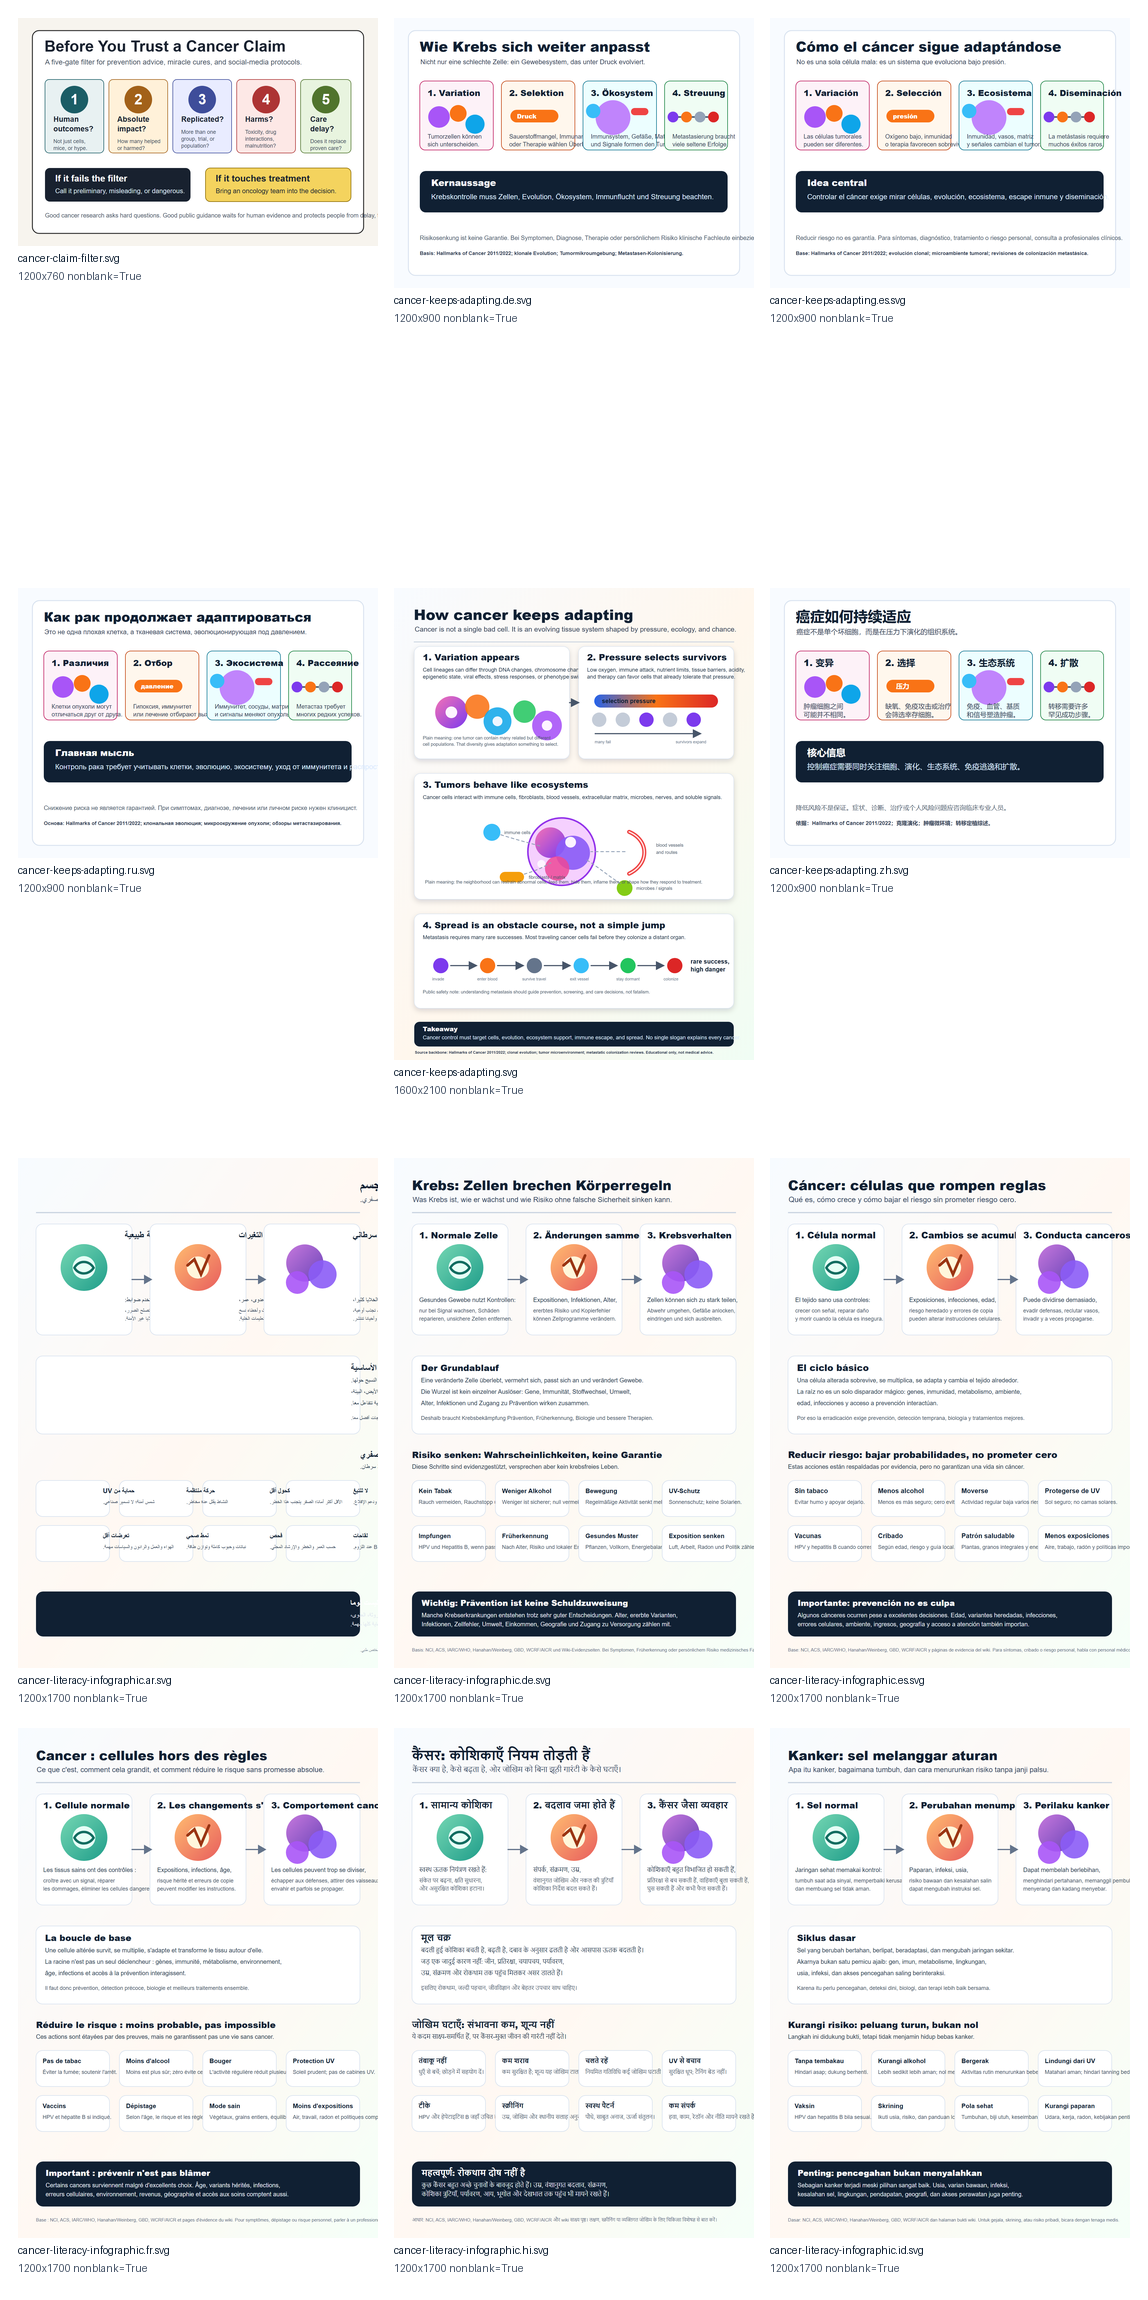
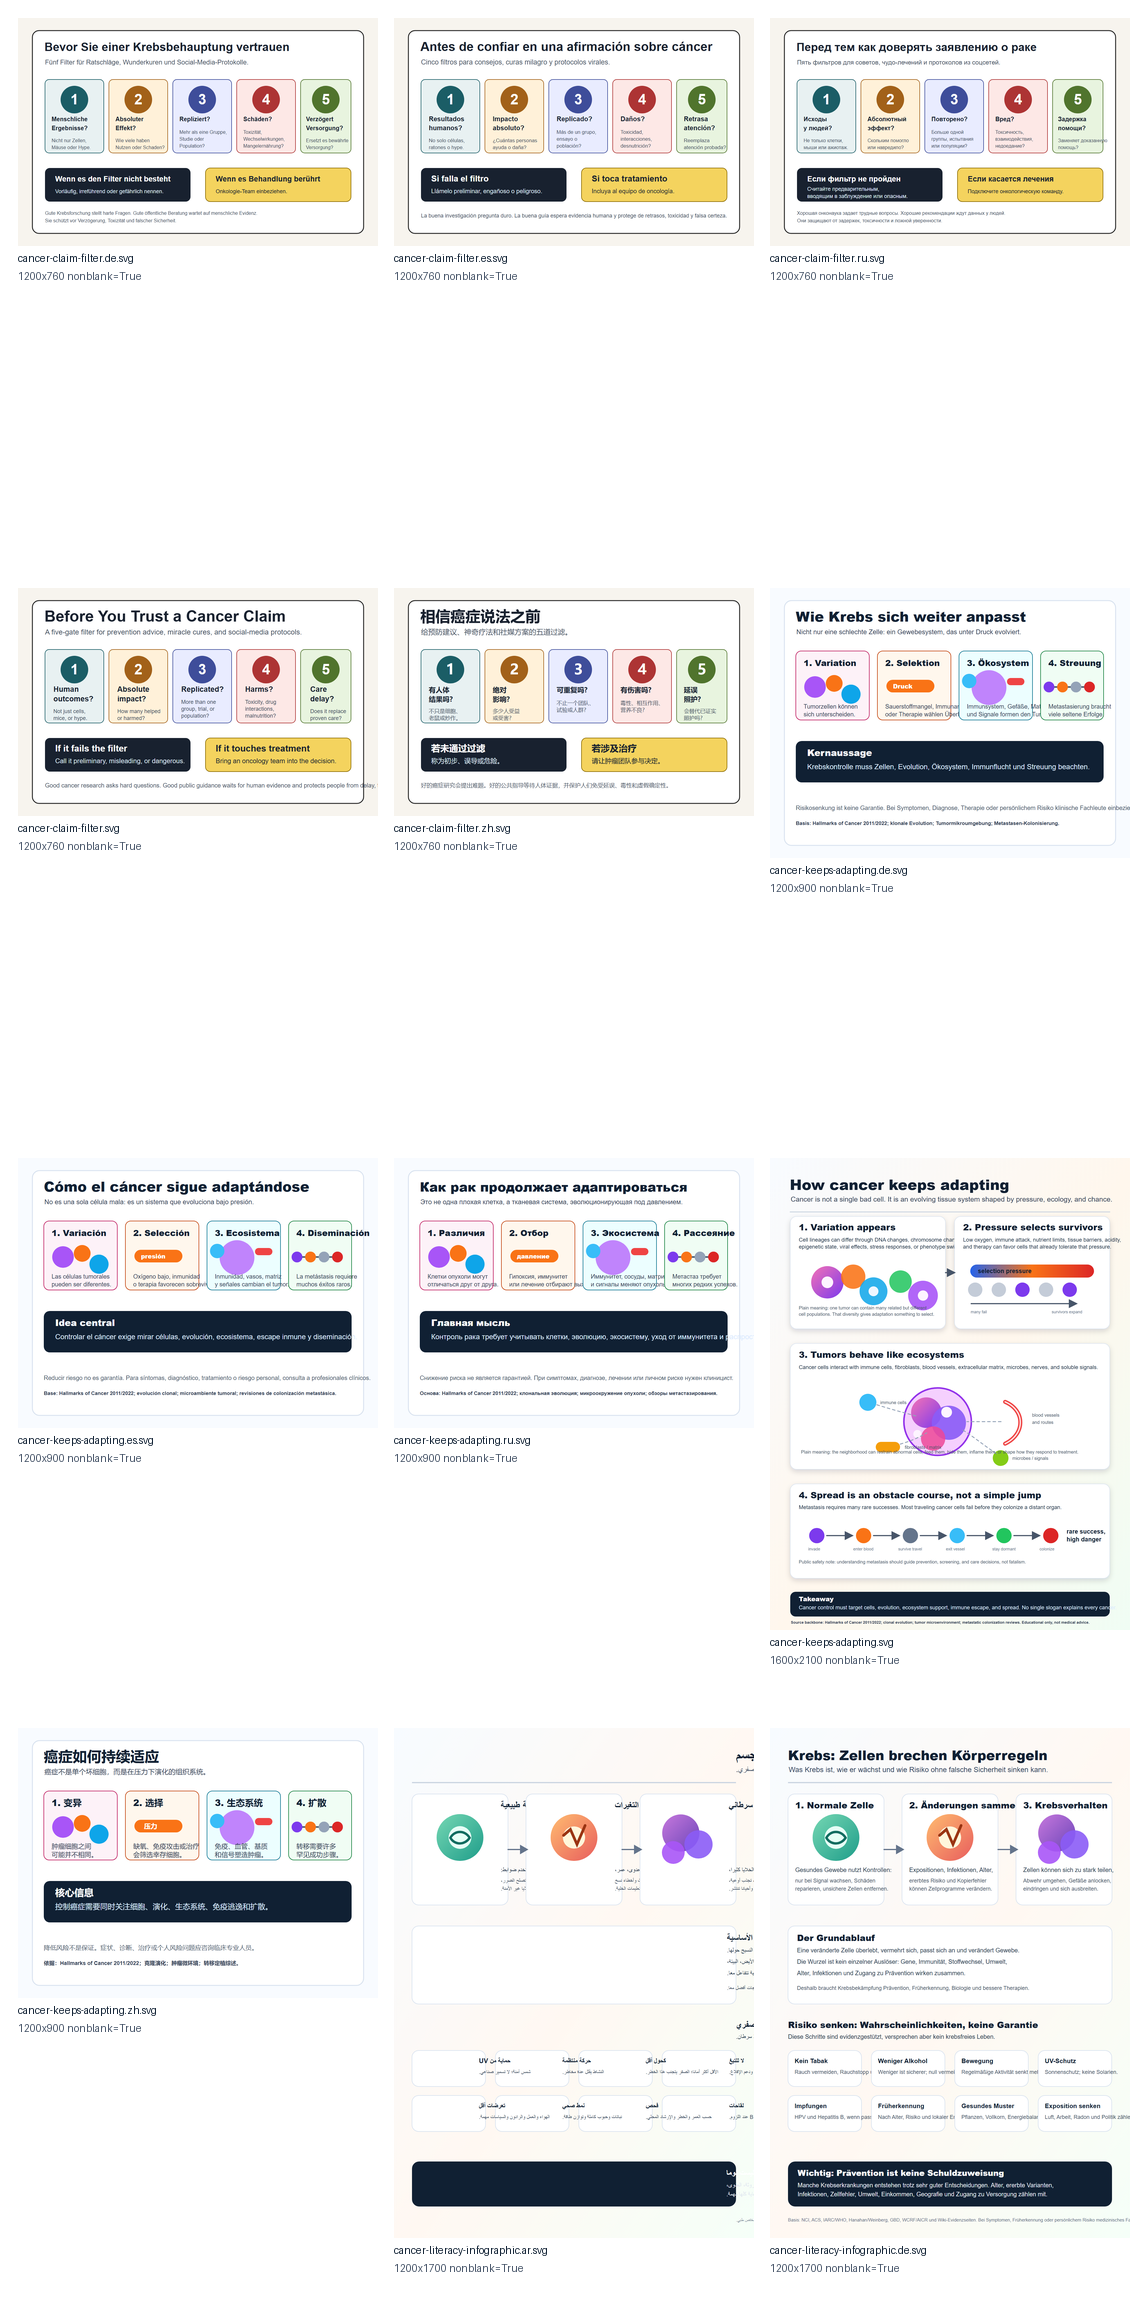
Add localized claim filter visuals

diff --git a/visuals/infographic-research-state-checks.md b/visuals/infographic-research-state-checks.md
@@ -11,6 +11,13 @@ Current translated support: `i18n/INFOGRAPHIC_CAPTIONS.md`
 
 Current safety add-on visual: `visuals/cancer-claim-filter.svg`
 
+Current localized claim-filter variants:
+
+- Spanish: `visuals/cancer-claim-filter.es.svg`
+- German: `visuals/cancer-claim-filter.de.svg`
+- Mandarin Chinese: `visuals/cancer-claim-filter.zh.svg`
+- Russian: `visuals/cancer-claim-filter.ru.svg`
+
 Current companion mechanism visual: `visuals/cancer-keeps-adapting.svg`
 
 Current screening/vaccination decision visual: `visuals/screening-vaccination-decision.svg`
@@ -74,8 +81,9 @@ New QA artifacts:
 ### What Changed
 
 - The current SVG set now has repeatable headless Chrome render QA in addition to XML structural QA.
-- All 42 SVGs rendered to nonblank PNGs at their declared canvas sizes.
+- All 46 current SVGs render to nonblank PNGs at their declared canvas sizes.
 - Contact sheets make it easier to inspect the visual set across languages and companions without opening every SVG one by one.
+- The claim-filter localized variants were included in this render pass; obvious German and Russian text overflow found during contact-sheet/full-size inspection was corrected before commit.
 
 ### Decision For The Flagship Infographic
 
@@ -286,12 +294,17 @@ New evidence page:
 New visual:
 
 - `visuals/cancer-claim-filter.svg`
+- `visuals/cancer-claim-filter.es.svg`
+- `visuals/cancer-claim-filter.de.svg`
+- `visuals/cancer-claim-filter.zh.svg`
+- `visuals/cancer-claim-filter.ru.svg`
 
 ### What Changed
 
 - The wiki now has a reusable five-gate public filter for cancer claims: human outcomes, absolute impact, replication, harms/interactions, and care delay.
 - New claim cards cover alkaline diets, detoxes, supplements, high-dose vitamin C, cannabis/cannabinoids, ivermectin/fenbendazole, fasting, and ketogenic diets.
 - The new page uses non-CDC-heavy sources, including AICR/WCRF, ASCO, systematic reviews, peer-reviewed trials, and frontier-review caution around drug repurposing.
+- First-pass localized claim-filter variants now exist for Spanish, German, Mandarin Chinese, and Russian.
 
 ### Decision For The Flagship Infographic
 
@@ -301,7 +314,11 @@ Instead:
 
 - Keep `visuals/cancer-claim-filter.svg` as a separate public safety visual.
 - Link the claim-filter page from the README research backing.
-- Later, translate the claim-filter visual only after language-specific review, because misleading claims often use local idioms and culture-specific fear hooks.
+- Keep localized claim-filter visuals under native review before public-final use, because misleading claims often use local idioms and culture-specific fear hooks.
+
+### Translation Impact
+
+The localized claim-filter visuals are useful for access, but they are also higher-risk than neutral mechanism diagrams. Future crawl passes should collect language-specific examples of misleading cancer prevention and treatment claims so translations can be tuned to real public-risk wording without amplifying scams.
 
 ## 2026-06-12 Check: Translated Infographic Assets
 

diff --git a/visuals/visual-qa-log.md b/visuals/visual-qa-log.md
@@ -11,7 +11,7 @@ Scope:
 
 - Flagship cancer literacy infographic: English plus localized SVGs.
 - Companion adaptation infographic: English plus first localized SVGs.
-- Claim-filter add-on visual.
+- Claim-filter add-on visual: English plus first localized SVGs.
 
 Checked files:
 
@@ -57,6 +57,10 @@ Checked files:
 - `visuals/population-burden-not-blame.zh.svg`
 - `visuals/population-burden-not-blame.ru.svg`
 - `visuals/cancer-claim-filter.svg`
+- `visuals/cancer-claim-filter.es.svg`
+- `visuals/cancer-claim-filter.de.svg`
+- `visuals/cancer-claim-filter.zh.svg`
+- `visuals/cancer-claim-filter.ru.svg`
 
 Result:
 
@@ -78,7 +82,7 @@ Browser QA attempt:
 
 Scope:
 
-- All 42 SVG files in `visuals/`.
+- All 46 SVG files in `visuals/`.
 
 Tooling:
 
@@ -95,8 +99,8 @@ Generated artifacts:
 
 Result:
 
-- Headless Chrome rendered all 42 SVG files at their declared canvas sizes.
-- All 42 renders were nonblank.
+- Headless Chrome rendered all 46 SVG files at their declared canvas sizes.
+- All 46 renders were nonblank.
 - Contact-sheet inspection did not reveal blank canvases or completely missing non-Latin glyph rendering.
 - Some dense translated visuals, especially non-Latin and right-to-left layouts, still need close human inspection for clipping, text crowding, line overflow, and translation quality.
 
@@ -122,6 +126,7 @@ Repository note:
 | Population burden/no-blame SVG | Passed | Headless Chrome nonblank passed; close layout review still needed | Not applicable |
 | Population burden/no-blame localized SVGs | Passed | Headless Chrome nonblank passed; close layout review still needed | Still needed |
 | Claim-filter SVG | Passed | Headless Chrome nonblank passed; close layout review still needed | Not applicable |
+| Claim-filter localized SVGs | Passed | Headless Chrome nonblank passed; obvious German/Russian overflow fixed; close layout review still needed | Still needed |
 
 ## Next Visual QA Tasks
 

diff --git a/crawl-queue/goal-1-next-crawl.md b/crawl-queue/goal-1-next-crawl.md
@@ -42,7 +42,7 @@ Last updated: 2026-06-12
 - Continue close visual inspection of the headless Chrome contact sheets in `visuals/qa-renders/`; current renderer QA proves all 42 SVGs render nonblank, but it does not finish clipping, glyph, layout, or translation review.
 - Visually QA the public-safe screening/vaccination decision visual and first localized variants: `visuals/screening-vaccination-decision.svg`, `.es.svg`, `.de.svg`, `.zh.svg`, and `.ru.svg`. Then expand to the remaining flagship languages if the compact layout holds.
 - Visually QA and expand the new agent-facing concept map: `visuals/risk-mechanism-prevention-map.svg`.
-- Produce a small public "cancer claim filter" visual for spotting weak or dangerous claims.
+- Visually QA the public "cancer claim filter" visual and first localized variants: `visuals/cancer-claim-filter.svg`, `.es.svg`, `.de.svg`, `.zh.svg`, and `.ru.svg`. Then gather native-language examples of misleading cancer-claim wording before expanding the visual to additional languages.
 - Visually QA the new site-specific prevention visual and first localized variants: `visuals/site-specific-prevention-levers.svg`, `.es.svg`, `.de.svg`, `.zh.svg`, and `.ru.svg`. Then expand to additional languages if the compact layout holds.
 - Visually QA the new relative versus absolute risk visual and first localized variants: `visuals/relative-vs-absolute-risk.svg`, `.es.svg`, `.de.svg`, `.zh.svg`, and `.ru.svg`. Then expand to additional languages if the compact layout holds.
 - Visually QA the new population burden/no-blame visual and first localized variants: `visuals/population-burden-not-blame.svg`, `.es.svg`, `.de.svg`, `.zh.svg`, and `.ru.svg`. Then expand to additional languages if the compact layout holds.

diff --git a/i18n/README.md b/i18n/README.md
@@ -68,6 +68,18 @@ The companion mechanism visual is a denser public explanation of cancer adaptati
 | Mandarin Chinese | [cancer-keeps-adapting.zh.svg](../visuals/cancer-keeps-adapting.zh.svg) | First localized SVG |
 | Russian | [cancer-keeps-adapting.ru.svg](../visuals/cancer-keeps-adapting.ru.svg) | First localized SVG |
 
+## Cancer Claim Filter Visual Variants
+
+This public safety visual helps readers test cancer prevention, treatment, and social-media claims before trusting them. Misleading claims often use local idioms, fear hooks, and culture-specific wording, so these translations should receive native safety review before being treated as final medical copy.
+
+| Language | Image | Status |
+| --- | --- | --- |
+| English | [cancer-claim-filter.svg](../visuals/cancer-claim-filter.svg) | Canonical first-pass SVG |
+| Spanish | [cancer-claim-filter.es.svg](../visuals/cancer-claim-filter.es.svg) | First localized SVG; native review needed |
+| German | [cancer-claim-filter.de.svg](../visuals/cancer-claim-filter.de.svg) | First localized SVG; native review needed |
+| Mandarin Chinese | [cancer-claim-filter.zh.svg](../visuals/cancer-claim-filter.zh.svg) | First localized SVG; native review needed |
+| Russian | [cancer-claim-filter.ru.svg](../visuals/cancer-claim-filter.ru.svg) | First localized SVG; native review needed |
+
 ## Screening And Vaccination Decision Visual Variants
 
 This public safety visual explains why symptoms, risk, screening, vaccination, benefits, harms, and follow-up must be kept separate.

diff --git a/prevention/cancer-claim-filter.md b/prevention/cancer-claim-filter.md
@@ -11,6 +11,7 @@ Use this with:
 - `prevention/misleading-prevention-claims.md`
 - `prevention/how-to-read-cancer-headlines.md`
 - `visuals/cancer-claim-filter.svg`
+- First localized visual variants: `visuals/cancer-claim-filter.es.svg`, `visuals/cancer-claim-filter.de.svg`, `visuals/cancer-claim-filter.zh.svg`, and `visuals/cancer-claim-filter.ru.svg`
 
 ## Public Rule
 
@@ -136,5 +137,9 @@ Do not cram these claim cards into the flagship "what is cancer" infographic. Ke
 Add the separate claim-filter visual where readers are likely to encounter prevention claims, treatment hype, or social-media cancer cures:
 
 - `visuals/cancer-claim-filter.svg`
+- `visuals/cancer-claim-filter.es.svg`
+- `visuals/cancer-claim-filter.de.svg`
+- `visuals/cancer-claim-filter.zh.svg`
+- `visuals/cancer-claim-filter.ru.svg`
 
-Future translation task: localize the claim-filter visual after native-speaker safety review, because misleading cancer claims often use culture-specific wording.
+Translation review task: keep the first localized claim-filter visuals under native-speaker safety review before treating them as public-final assets, because misleading cancer claims often use culture-specific wording, idioms, and fear hooks.

diff --git a/visuals/README.md b/visuals/README.md
@@ -37,6 +37,10 @@ Use `../tools/render_svg_contact_sheets.py` to render all SVGs with local headle
 | Visual | Asset | Status |
 | --- | --- | --- |
 | Cancer claim filter | `cancer-claim-filter.svg` | First-pass English SVG |
+| Cancer claim filter - Spanish | `cancer-claim-filter.es.svg` | First localized SVG; native review needed |
+| Cancer claim filter - German | `cancer-claim-filter.de.svg` | First localized SVG; native review needed |
+| Cancer claim filter - Mandarin Chinese | `cancer-claim-filter.zh.svg` | First localized SVG; native review needed |
+| Cancer claim filter - Russian | `cancer-claim-filter.ru.svg` | First localized SVG; native review needed |
 | Screening and vaccination decision guide | `screening-vaccination-decision.svg` | First-pass English SVG |
 | Site-specific prevention levers | `site-specific-prevention-levers.svg` | First-pass English SVG |
 | Site-specific prevention levers - Spanish | `site-specific-prevention-levers.es.svg` | First localized SVG |

diff --git a/visuals/qa-renders/svg-browser-render-qa-report.md b/visuals/qa-renders/svg-browser-render-qa-report.md
@@ -4,8 +4,8 @@ Date: 2026-06-12
 
 Renderer: `C:\Program Files\Google\Chrome\Application\chrome.exe`
 
-SVG files rendered: 42
-Nonblank renders: 42
+SVG files rendered: 46
+Nonblank renders: 46
 Blank or near-blank renders: 0
 
 ## Contact Sheets
@@ -25,7 +25,11 @@ Blank or near-blank renders: 0
 
 | SVG | Canvas | Nonblank | Brightness delta |
 | --- | ---: | --- | ---: |
+| `cancer-claim-filter.de.svg` | 1200x760 | True | 37.02 |
+| `cancer-claim-filter.es.svg` | 1200x760 | True | 37.48 |
+| `cancer-claim-filter.ru.svg` | 1200x760 | True | 36.55 |
 | `cancer-claim-filter.svg` | 1200x760 | True | 38.10 |
+| `cancer-claim-filter.zh.svg` | 1200x760 | True | 37.51 |
 | `cancer-keeps-adapting.de.svg` | 1200x900 | True | 41.15 |
 | `cancer-keeps-adapting.es.svg` | 1200x900 | True | 41.57 |
 | `cancer-keeps-adapting.ru.svg` | 1200x900 | True | 41.32 |

diff --git a/README.md b/README.md
@@ -60,6 +60,17 @@ Population burden is not personal blame visual:
 
 ![Population prevention is not personal blame](visuals/population-burden-not-blame.svg)
 
+Cancer claim filter visual:
+
+![Before you trust a cancer claim](visuals/cancer-claim-filter.svg)
+
+Localized claim-filter variants:
+
+- [Spanish claim-filter SVG](visuals/cancer-claim-filter.es.svg)
+- [German claim-filter SVG](visuals/cancer-claim-filter.de.svg)
+- [Mandarin Chinese claim-filter SVG](visuals/cancer-claim-filter.zh.svg)
+- [Russian claim-filter SVG](visuals/cancer-claim-filter.ru.svg)
+
 Localized population burden/no-blame variants:
 
 - [Spanish population burden/no-blame SVG](visuals/population-burden-not-blame.es.svg)
